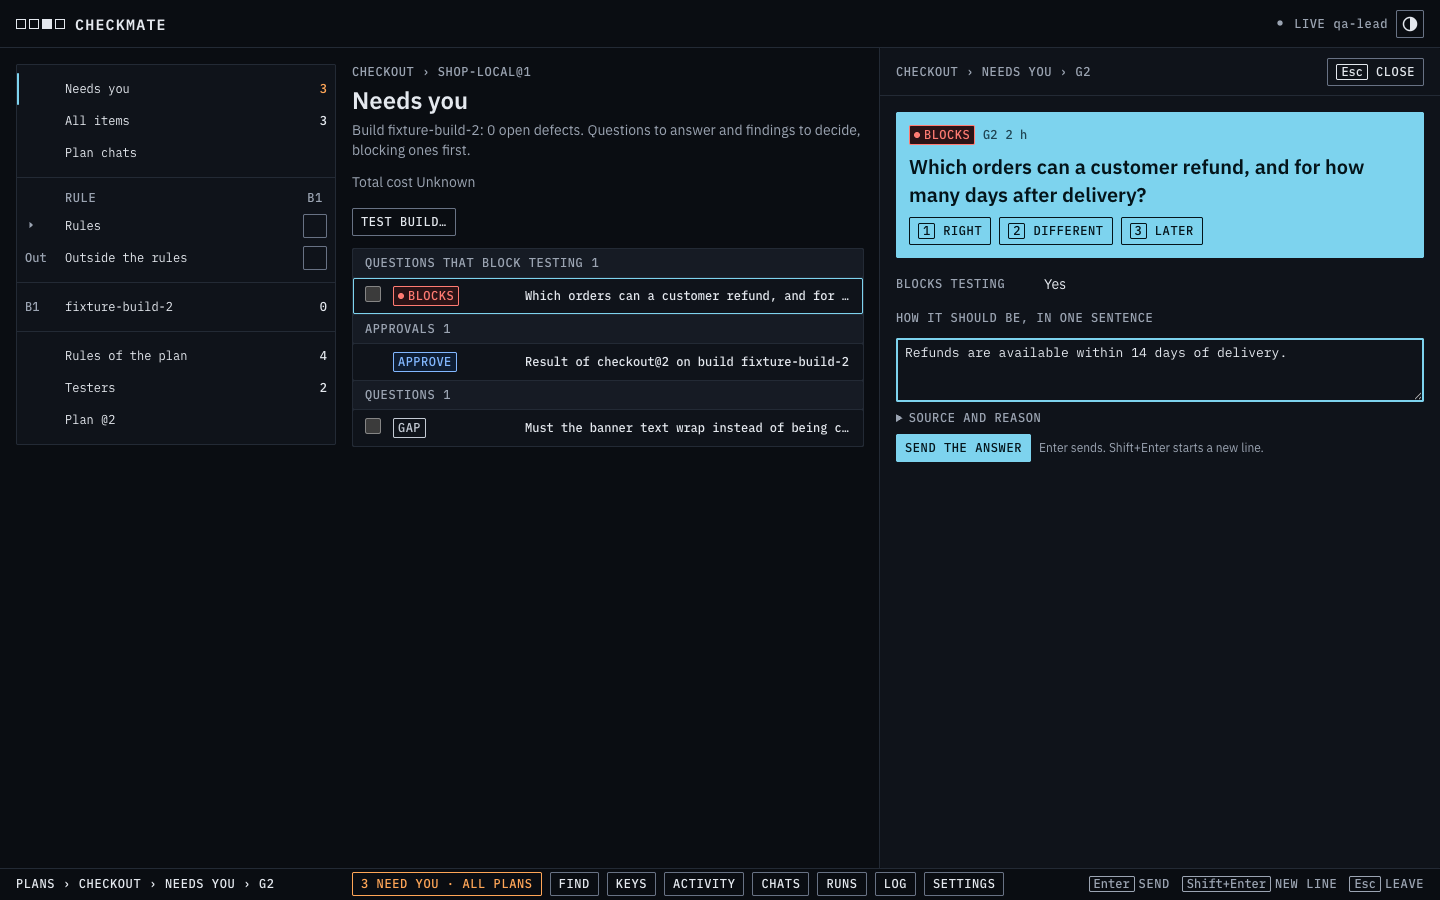
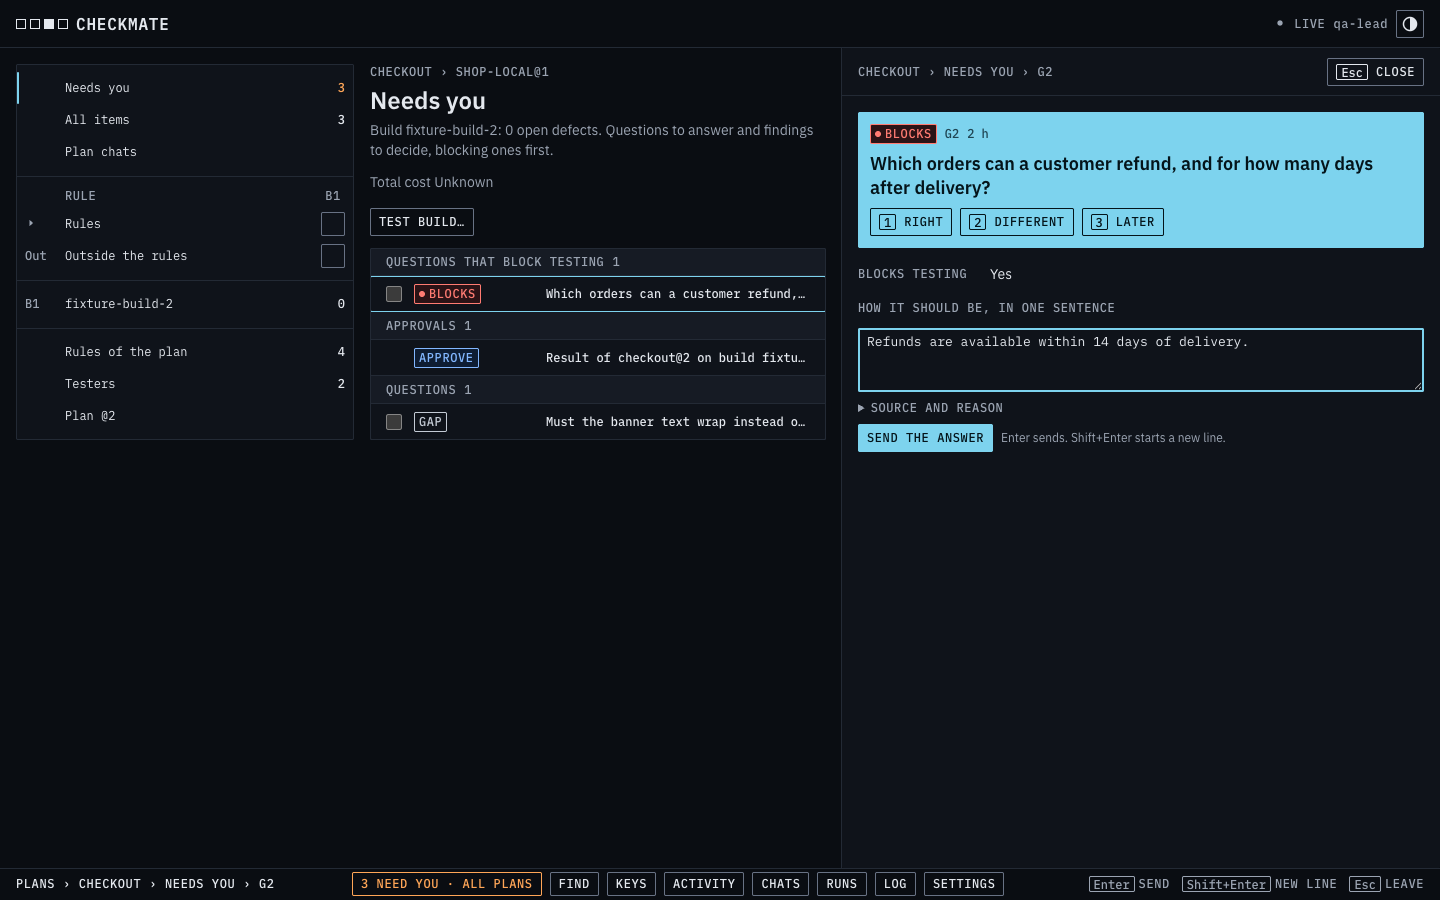
Add the Linux screenshots, the design document, and new UI images

diff --git a/docs/design-system.md b/docs/design-system.md
@@ -1,0 +1,91 @@
+# Review UI design system
+
+The review UI has one design system. It has three parts:
+
+| Part           | Where                                             | What it is                                                                 |
+| -------------- | ------------------------------------------------- | -------------------------------------------------------------------------- |
+| Tokens         | `:root` block of `plugin/src/ui/assets/style.css` | Every color, type style, space, size, width, line, layer and motion value. |
+| Reference page | `/design` in `checkmate ui`                       | The tokens and every component in each state, in light and dark.           |
+| Tests          | `test/e2e/design.test.ts`                         | Token rule, geometry, overflow, layers and screenshots.                    |
+
+Open `/design` to see the system. The theme button in the top bar switches light and dark. The "Grid overlay" button shows the columns and the 4px rows. On another page, run `document.documentElement.toggleAttribute('data-grid')` in the browser console to show the same overlay.
+
+## Tokens
+
+Each token has one declaration. A color token has a light value and a dark value: `light-dark(light, dark)`.
+
+| Group  | Tokens                                                                                                                                                                                                                                                    |
+| ------ | --------------------------------------------------------------------------------------------------------------------------------------------------------------------------------------------------------------------------------------------------------- |
+| Color  | `ground`, `surface`, `surface-2`, `ink`, `muted`, `neutral`, `hair`, `edge-soft`, `edge`, `accent`, `accent-hover`, `on-accent`, `select-muted`, `attention`, `scrim`, and `red`, `amber`, `blue`, `green` with their `-soft` fills                       |
+| Type   | `type-h1` 24/32, `type-h2` 18/24, `type-title` 16/24, `type-body` 14/20, `type-small` 12/16, `type-label` 12/16 mono, `type-mono` 12/16, `type-code` 13/20, `type-num` 20/28, `type-brand` 16/16; `bold`, `track`, `text-sm`                              |
+| Space  | `sp-1` 4, `sp-2` 8, `sp-3` 12, `sp-4` 16, `sp-6` 24, `sp-8` 32                                                                                                                                                                                            |
+| Size   | `size-icon` 16, `size-pill` 20, `size-mark` 24, `size-control` 28, `size-row` 32, `size-list-row` 36, `size-touch` 40, `size-top` 48                                                                                                                      |
+| Width  | `w-col-s` 80, `w-col-m` 120, `w-col-l` 176, `w-col-xl` 240, `w-num` 88, `w-aside` 320, `w-panel` 400, `w-dialog-s` 560, `w-dialog-m` 656, `w-dialog-l` 944, `w-form` 720, `w-record` 880, `w-wide` 960; heights `h-tile` 200, `h-frame` 256, `h-list` 384 |
+| Layout | `cols`, `gutter` 16, `margin` 16, `app-col`, `col`, `top-h`, `bar-h`, `drawer-w` 560, `measure` 72ch                                                                                                                                                      |
+| Line   | `radius` 2px, `line-w` 1px, `mark-w` 2px, `line`, `sep`, `sep-top`, `mark-inset`, `focus-ring`, `focus-offset`, `focus-inset`                                                                                                                             |
+| Layer  | `z-raised`, `z-frame`, `z-sticky`, `z-menu`, `z-drawer`, `z-pane`, `z-bar`, `z-sheet`, `z-viewer`, `z-notice`, `z-skip`, `z-grid`, from bottom to top                                                                                                     |
+| Motion | `motion-fade` 0.3s, `motion-flash` 2s                                                                                                                                                                                                                     |
+
+There are no drop shadows. The UI is flat.
+
+## Grid
+
+- The unit is 4px. Each space, size and line height is a multiple of 4px. Only 1px lines and 2px marks are smaller.
+- The page has 12 columns above 1100px, 8 columns from 761px to 1100px, and 4 columns at 760px and below.
+- The gutter is 16px. The margin is 16px at each side, or the safe area if it is larger.
+- Each column is a whole number of pixels. The last column takes the remaining pixels.
+- The plan nav takes columns 1 to 3. The page content takes columns 4 to 12.
+- The drawer takes columns 8 to 12 and the right margin. The page content then stops at column 7. At 1100px and below, the drawer covers the page.
+- Viewport breakpoints: 400px, 760px, 1100px and 1240px. Content-width breakpoints: 560px, 976px and 1100px.
+
+## Lines and rows
+
+Each box top and each box height is on the 4px rows. A line must not add to the height of a box:
+
+- A framed container draws its frame with the shared `::after` overlay.
+- A separator between rows is an inset shadow: `--sep` or `--sep-top`.
+- A control has a fixed height that includes its border.
+- A scroll container keeps its border and makes its padding smaller by the line width.
+
+## Small parts
+
+Key caps, pills, tags, result marks, check boxes and icon buttons have a fixed height from the size tokens. Their content is centred in that height. In running text, a key cap or a pill sits in the 20px line. It does not make the line taller. Hover, focus, active, selected and disabled states change only color, outline or shadow. They do not change the size or the position of a box.
+
+## Components
+
+The reference page shows each component: button (default, small, primary, link, icon), pill, tag, key cap, glyph, result mark, form fields, banner, notices, list with group header and rows, plan tile, plan nav, page heading, panel and decision, summary strip and facts, tabs, table, fold, menu, cards, evidence tile and code, toast, bulk bar, say strip, top bar, status bar, drawer, dialogs (keys, find, confirm), run list with timeline, chat, pager and filters, and viewer. Each component uses the class names of the real templates.
+
+## Tests
+
+`test/e2e/design.test.ts` runs in `npm run phase:verify`. It uses the Chromium headless shell that `playwright-core` pins. Install it once:
+
+```sh
+npx playwright-core install chromium-headless-shell
+```
+
+The tests check these rules:
+
+1. No value outside the token block is a raw length, color or layer number. Each `var()` names a token.
+2. On each page, at 390px, 820px and 1440px, and at device scale 2: each box is on the 4px rows; small parts are centred to 0.5px; the items in a row share one centre line; list columns start at the same x; framed text starts 16px from the frame.
+3. Light and dark have the same geometry.
+4. States do not move or resize a box.
+5. No page is wider than the window.
+6. The top bar, the status bar, menus and the nav strip stack above the page and the drawer.
+7. Each component block of `/design`, and three main pages at three widths, match the screenshots in `test/e2e/screens/<platform>/` with zero different pixels.
+
+To accept a changed screenshot after a deliberate UI change, run:
+
+```sh
+CHECKMATE_UPDATE_SCREENS=1 node --test test/e2e/design.test.ts
+```
+
+Make the screenshots on the platform of the folder. CI makes the `linux` screenshots. When they differ, CI keeps the new files in the `design-screens` artifact. Download the artifact, examine each file, and copy the files into `test/e2e/screens/linux/`.
+
+## Rules for a change
+
+1. Use a token for each value. Add a token only when no token fits.
+2. Put page blocks on the column grid.
+3. Draw lines inside boxes.
+4. Give each small part a fixed height from the size tokens.
+5. Add each new component to `plugin/src/ui/assets/design-parts.html`, with each state that applies.
+6. Run the design tests. Examine each changed screenshot before you accept it.

diff --git a/docs/development.md b/docs/development.md
@@ -7,6 +7,7 @@ Checkmate runs its CLI from a packed npm artifact. The required local gate check
 - Node.js 24.12.0 or later.
 - A real Pi CLI on `PATH` (`pi --version` must work). CI pins Pi 1.5.2. The tests use controlled hosts and a local Pi provider; they do not require provider credentials.
 - An executable Chromium browser. Set `CHECKMATE_BROWSER_EXECUTABLE` to its full path.
+- The pinned Chromium headless shell for the design tests: run `npx playwright-core install chromium-headless-shell`.
 - Dependencies installed with `npm ci`.
 
 On macOS, for example:
@@ -95,16 +96,7 @@ Use the host commands to test the conversation. The agent runs the bundled CLI a
 
 ## Review UI design system
 
-The design reference of the review UI is the page `/design` of `checkmate ui`. It reads the tokens from `plugin/src/ui/assets/style.css` and shows the real components in each state. Use the theme button to see light and dark. Use the "Grid overlay" button to see the columns and the 4px rows.
-
-Obey these rules when you change the UI:
-
-1. Put each color, type style, space, size, line, and motion value in the `:root` token block of `style.css`.
-2. Use only tokens in the other rules. Media queries and component track widths are the only literal values. Make each track width a multiple of 4px.
-3. Put page blocks on the 12-column grid. The plan nav takes columns 1 to 3. The drawer takes columns 8 to 12.
-4. Draw 1px lines inside boxes, so that the boxes stay on the 4px rows.
-
-`test/e2e/design.test.ts` checks the token rule, the grid, and the reference page.
+Read [the review UI design system](design-system.md) before you change the UI. Open `/design` in `checkmate ui` to see the tokens and the components. Run `npx playwright-core install chromium-headless-shell` once: the design tests use that pinned browser.
 
 ## Documentation media
 

diff --git a/docs/README.md b/docs/README.md
@@ -5,3 +5,4 @@
 - [Use Checkmate from a factory](factory.md): review a ticket, promote tests, and run a permanent snapshot.
 - [CLI and record reference](reference.md): command forms, contracts, states, evidence, and limits.
 - [Develop Checkmate](development.md): prerequisites, required checks, and agent-only repository instructions.
+- [Review UI design system](design-system.md): tokens, grid, components, and the design tests.
